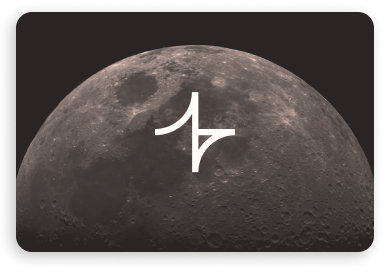
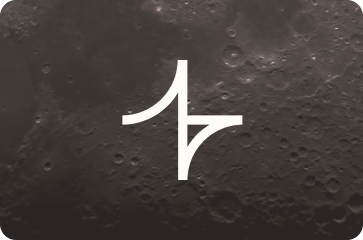
Fix About section: sharp moon images, unified cards, new mobile moon
Made-with: Cursor

diff --git a/src/components/AboutSection.tsx b/src/components/AboutSection.tsx
@@ -61,8 +61,8 @@ export function AboutSection() {
                   <Image
                     src="/images/backgrounds/about-mobile-moon.png"
                     alt=""
-                    width={400}
-                    height={240}
+                    width={386}
+                    height={272}
                     sizes="100vw"
                     className="h-auto w-full object-contain"
                     priority
@@ -80,7 +80,7 @@ export function AboutSection() {
                 width={363}
                 height={240}
                 sizes="(max-width: 1280px) 33vw, 363px"
-                className="h-auto w-full rounded-2xl shadow-[-4px_4px_16px_0px_rgba(0,0,0,0.25)]"
+                className="h-auto w-full rounded-[16px] shadow-[-4px_4px_16px_0px_rgba(0,0,0,0.25)]"
                 loading="lazy"
               />
             </div>
@@ -88,10 +88,10 @@ export function AboutSection() {
               <Image
                 src="/images/backgrounds/about-image-2.png"
                 alt=""
-                width={386}
-                height={272}
-                sizes="(max-width: 1280px) 33vw, 386px"
-                className="h-auto w-full rounded-2xl shadow-[-4px_4px_16px_0px_rgba(0,0,0,0.25)]"
+                width={363}
+                height={240}
+                sizes="(max-width: 1280px) 33vw, 363px"
+                className="h-auto w-full rounded-[16px] shadow-[-4px_4px_16px_0px_rgba(0,0,0,0.25)]"
                 loading="lazy"
               />
             </div>
@@ -102,7 +102,7 @@ export function AboutSection() {
                 width={362}
                 height={240}
                 sizes="(max-width: 1280px) 33vw, 362px"
-                className="h-auto w-full rounded-2xl shadow-[-4px_4px_16px_0px_rgba(0,0,0,0.25)]"
+                className="h-auto w-full rounded-[16px] shadow-[-4px_4px_16px_0px_rgba(0,0,0,0.25)]"
                 loading="lazy"
               />
             </div>
